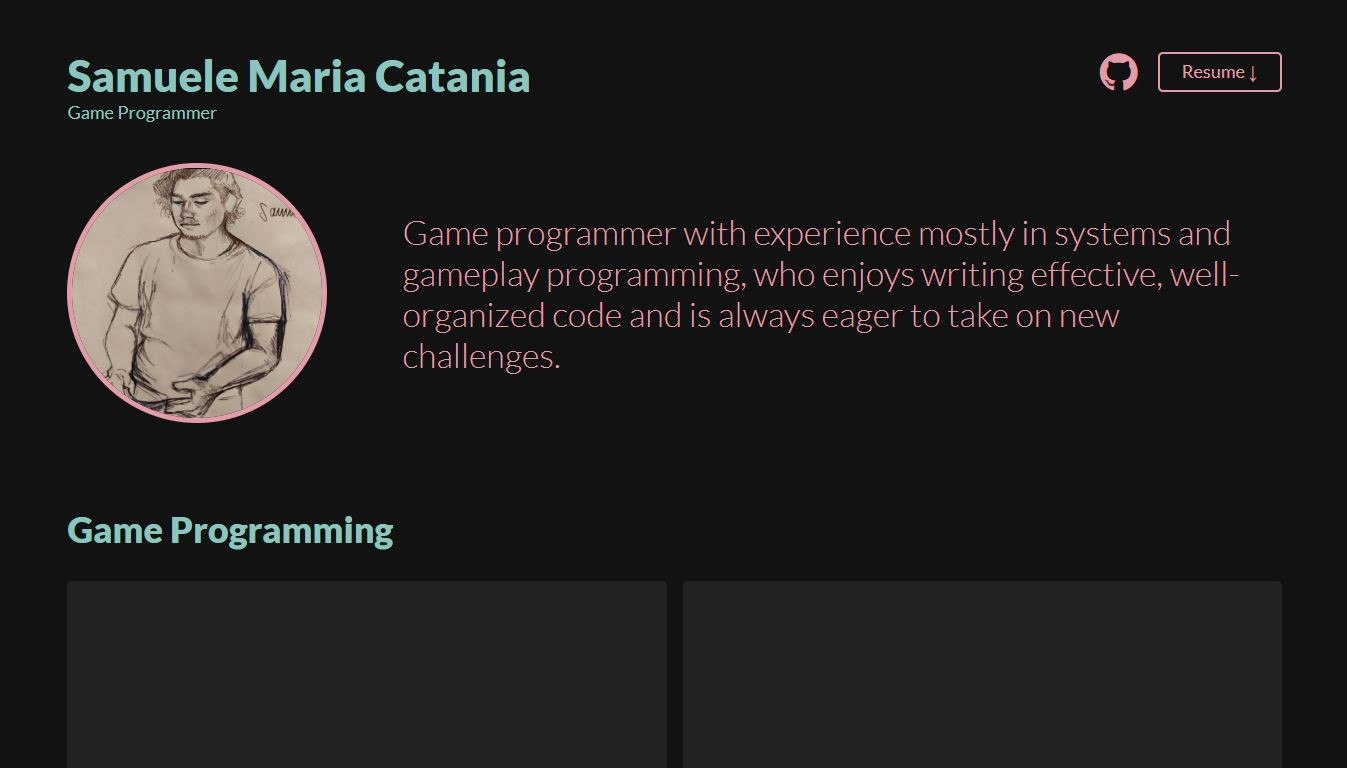
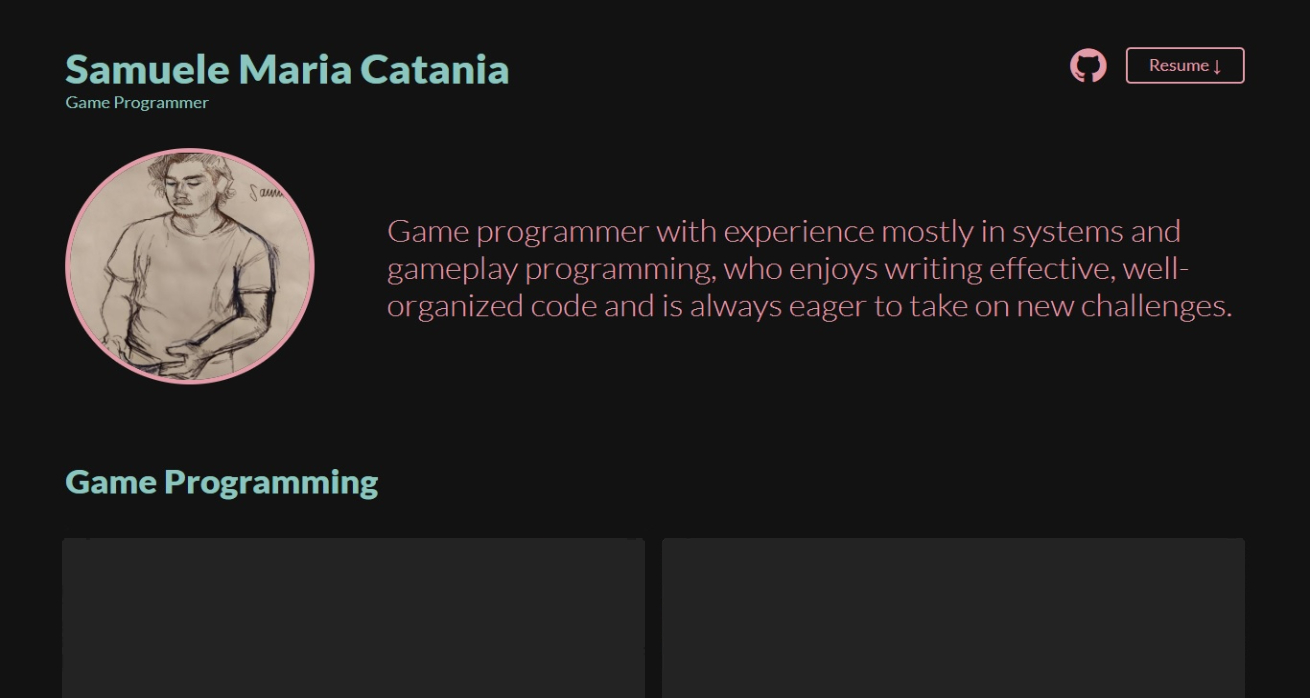
fixed homepage

diff --git a/index.html b/index.html
@@ -32,11 +32,13 @@
             <h2>Game Programming</h2>
             <div class="game-programming">
                 <div class="portfolio-block"><a href="portfolio/myportfolio.html">
-                    <div class="portfolio-image" style="background-image: url('images/myportfolio.jpg');"></div>
-                    <div class="portfolio-details">
-                        <div><i class="fa fa-group"></i><span>1</span></div>
-                        <div><i class="fa fa-clock-o"></i><span>2 weeks</span></div>
-                        <div><i class="fa fa-wrench"></i><span>HTML (Css)</span></div>
+                    <div class="portfolio-image">
+                        <img src="/images/MyPortfolio.jpg" alt="My Portfolio image">
+                        <div class="portfolio-details">
+                            <div><i class="fa fa-group"></i><span>1</span></div>
+                            <div><i class="fa fa-clock-o"></i><span>2 weeks</span></div>
+                            <div><i class="fa fa-wrench"></i><span>HTML (Css)</span></div>
+                        </div>
                     </div>
                     <div class="portfolio-content">
                         <div class="title-game"><h3 class="portfolio-title">Programmer Portfolio (2024)</h3> <h3 class="portfolio-arrow">&#11166</h3> </div>
@@ -47,11 +49,13 @@
                     </div>
                 </a></div>
                 <div class="portfolio-block"><a href="portfolio/myshoppinglist.html">
-                    <div class="portfolio-image" style="background-image: url('images/myshoppinglist.jpg');"></div>
-                    <div class="portfolio-details">
-                        <div><i class="fa fa-group"></i><span>5</span></div>
-                        <div><i class="fa fa-clock-o"></i><span>10 weeks</span></div>
-                        <div><i class="fa fa-wrench"></i><span>Unity</span></div>
+                    <div class="portfolio-image">
+                        <img src="/images/LosGatos.jpg" alt="MyShoppingList image">
+                        <div class="portfolio-details">
+                            <div><i class="fa fa-group"></i><span>5</span></div>
+                            <div><i class="fa fa-clock-o"></i><span>10 weeks</span></div>
+                            <div><i class="fa fa-wrench"></i><span>Unity</span></div>
+                        </div>
                     </div>
                     <div class="portfolio-content">
                         <div class="title-game"><h3 class="portfolio-title">My Shopping List (2024)</h3> <h3 class="portfolio-arrow">&#11166</h3> </div>
@@ -62,11 +66,13 @@
                     </div>
                 </a></div>
                 <div class="portfolio-block"><a href="portfolio/losgatos.html">
-                    <div class="portfolio-image" style="background-image: url('images/LosGatos.jpg');"></div>
-                    <div class="portfolio-details">
-                        <div><i class="fa fa-group"></i><span>5</span></div>
-                        <div><i class="fa fa-clock-o"></i><span>7 weeks</span></div>
-                        <div><i class="fa fa-wrench"></i><span>GameMaker</span></div>
+                    <div class="portfolio-image">
+                        <img src="/images/LosGatos.jpg" alt="Los Gatos image">
+                        <div class="portfolio-details">
+                            <div><i class="fa fa-group"></i><span>5</span></div>
+                            <div><i class="fa fa-clock-o"></i><span>7 weeks</span></div>
+                            <div><i class="fa fa-wrench"></i><span>GameMaker</span></div>
+                        </div>
                     </div>
                     <div class="portfolio-content">
                         <div class="title-game"><h3 class="portfolio-title">Los Gatos (2024)</h3> <h3 class="portfolio-arrow">&#11166</h3> </div>

diff --git a/css/style.css b/css/style.css
@@ -140,6 +140,9 @@ a{
     border: 5px solid;
     border-radius: 50%;
 }
+.about-information {
+    padding-top: 64px;
+}
 .about-text {
     color: #E29BA7;
     font-weight: 300;
@@ -155,13 +158,11 @@ a{
     border-radius: 5px;
     overflow: hidden;
 }
-.portfolio-image {
-    height: 300px;
-    background-size: cover;
-    background-position: center;
+.portfolio-image img {
+    width: 100%;
 }
 .portfolio-content {
-    padding: 5%;
+    padding: 10px 5%;
     color: white;
 }
 .portfolio-title, .portfolio-arrow {
@@ -184,9 +185,12 @@ a{
 .portfolio-details {
     display: flex;
     justify-content: space-between;
-    height: 35px;
-    background-color: rgba(0, 0, 0, 0.2);
     padding: 0 5%;
+    background-color: #232323cc;
+    position: sticky;
+    margin-top: -50px;
+    height: 50px;
+    align-content: center;
 }
 .portfolio-details i {
     color: white;
